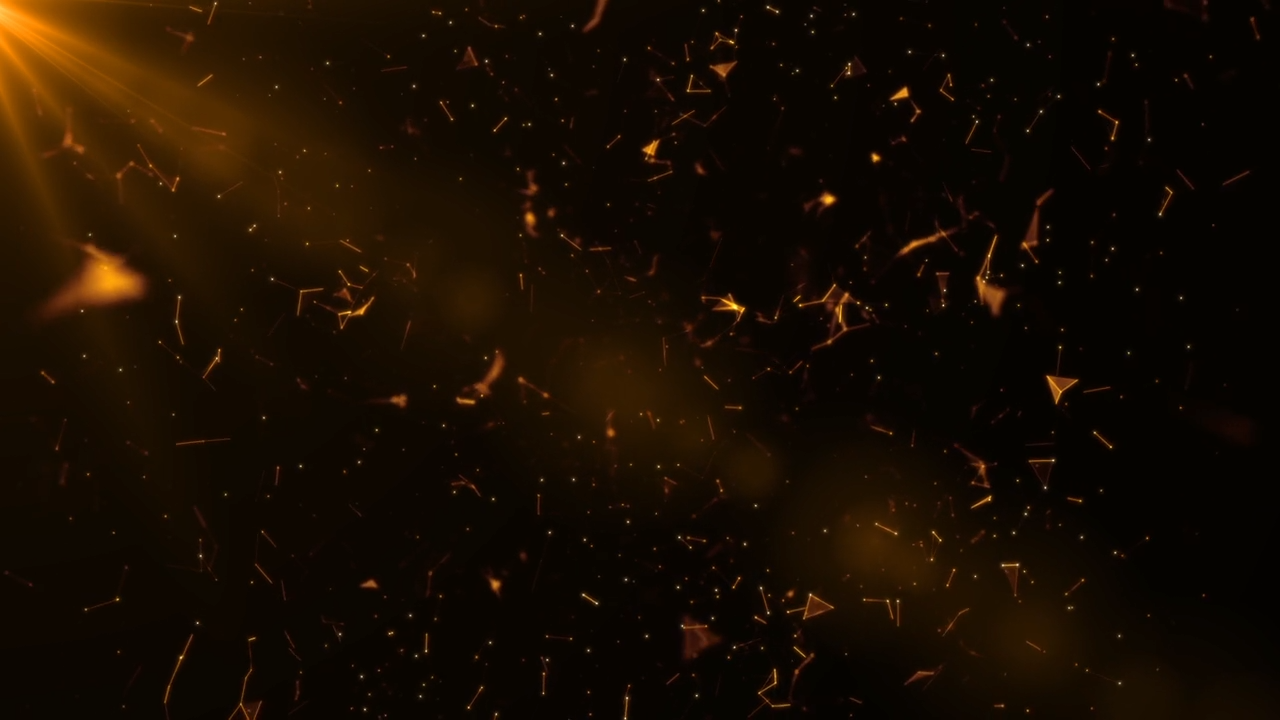
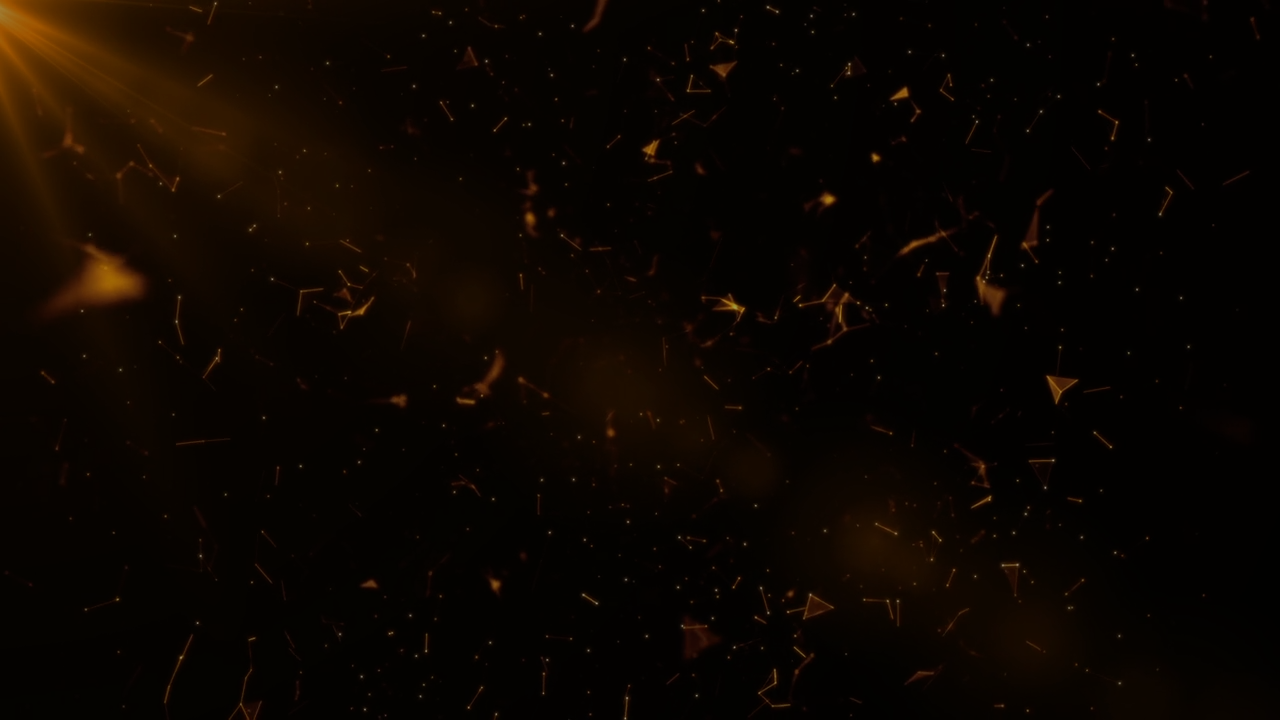
[style] change CSS image var name and darken image

diff --git a/assets/css/styles.css b/assets/css/styles.css
@@ -5,27 +5,27 @@
   --main-em-color: #f54e65;
   --secondary-em-color: #f67f5e;
   --default-font-size: 14px;
-  --default-profile-size: 350px;
+  --default-img-size: 350px;
 }
 
 @media (min-width: 1800px) {
   :root {
     --default-font-size: 18px;
-    --default-profile-size: 500px;
+    --default-img-size: 500px;
   }
 }
 
 @media (min-width: 2400px) {
   :root {
     --default-font-size: 22px;
-    --default-profile-size: 600px;
+    --default-img-size: 600px;
   }
 }
 
 @media (min-width: 3600px) {
   :root {
     --default-font-size: 26px;
-    --default-profile-size: 700px;
+    --default-img-size: 700px;
   }
 }
 
@@ -128,8 +128,7 @@ hr {
   position: absolute;
   object-fit: cover;
   z-index: 0;
-  filter: brightness(70%);
-  /* display: none; */
+  filter: brightness(50%);
 }
 
 .main-content {
@@ -221,7 +220,7 @@ hr {
 }
 
 .about-image > img {
-  width: calc(var(--default-profile-size) * 0.5);
+  width: calc(var(--default-img-size) * 0.5);
   margin: 0 auto 5vh auto;
   border-radius: 50%;
   background-color: var(--secondary-em-color, orange);
@@ -250,7 +249,7 @@ hr {
 /* work */
 
 .work-container {
-  padding: 10vh 10vw;
+  padding: 10vh 5vw;
   display: flex;
   flex-direction: column;
   flex-wrap: wrap;
@@ -260,7 +259,7 @@ hr {
 
 .project {
   padding: 1.5em;
-  margin: 1em 2em 1em 2em;
+  margin: 1em 1em 1em 1em;
   border-radius: 1em;
   background-color: rgba(var(--text-color), 0.9);
   color: black;
@@ -301,7 +300,7 @@ hr {
   /* content inside one project */
   margin-top: 0.5em;
   /* font-size: 1.2em; */
-  font-size: 1rem;
+  font-size: 0.8rem;
 }
 
 .project:hover {
@@ -372,21 +371,37 @@ hr {
     padding: 0 5vw;
     display: grid;
     justify-content: center;
-    grid-template-columns: var(--default-profile-size) minmax(
-        calc(var(--default-profile-size) * 1.4),
-        calc(var(--default-profile-size) * 1.9)
+    grid-template-columns: var(--default-img-size) minmax(
+        calc(var(--default-img-size) * 1.4),
+        calc(var(--default-img-size) * 1.9)
       );
     font-size: 1.2em;
   }
 
   .about-image > img {
     margin-left: 0;
-    width: calc(var(--default-profile-size) * 0.7);
+    width: calc(var(--default-img-size) * 0.7);
+  }
+
+  .work-container {
+    padding: 10vh 10vw;
+  }
+
+  .project {
+    margin: 1em 2em 1em 2em;
   }
 
   .project-bucket {
     display: grid;
-    grid-template-columns: auto auto;
+    grid-template-columns:
+      minmax(
+        calc(var(--default-img-size) * 1),
+        calc(var(--default-img-size) * 1.7)
+      )
+      minmax(
+        calc(var(--default-img-size) * 1),
+        calc(var(--default-img-size) * 1.7)
+      );
   }
 
   .project * {
